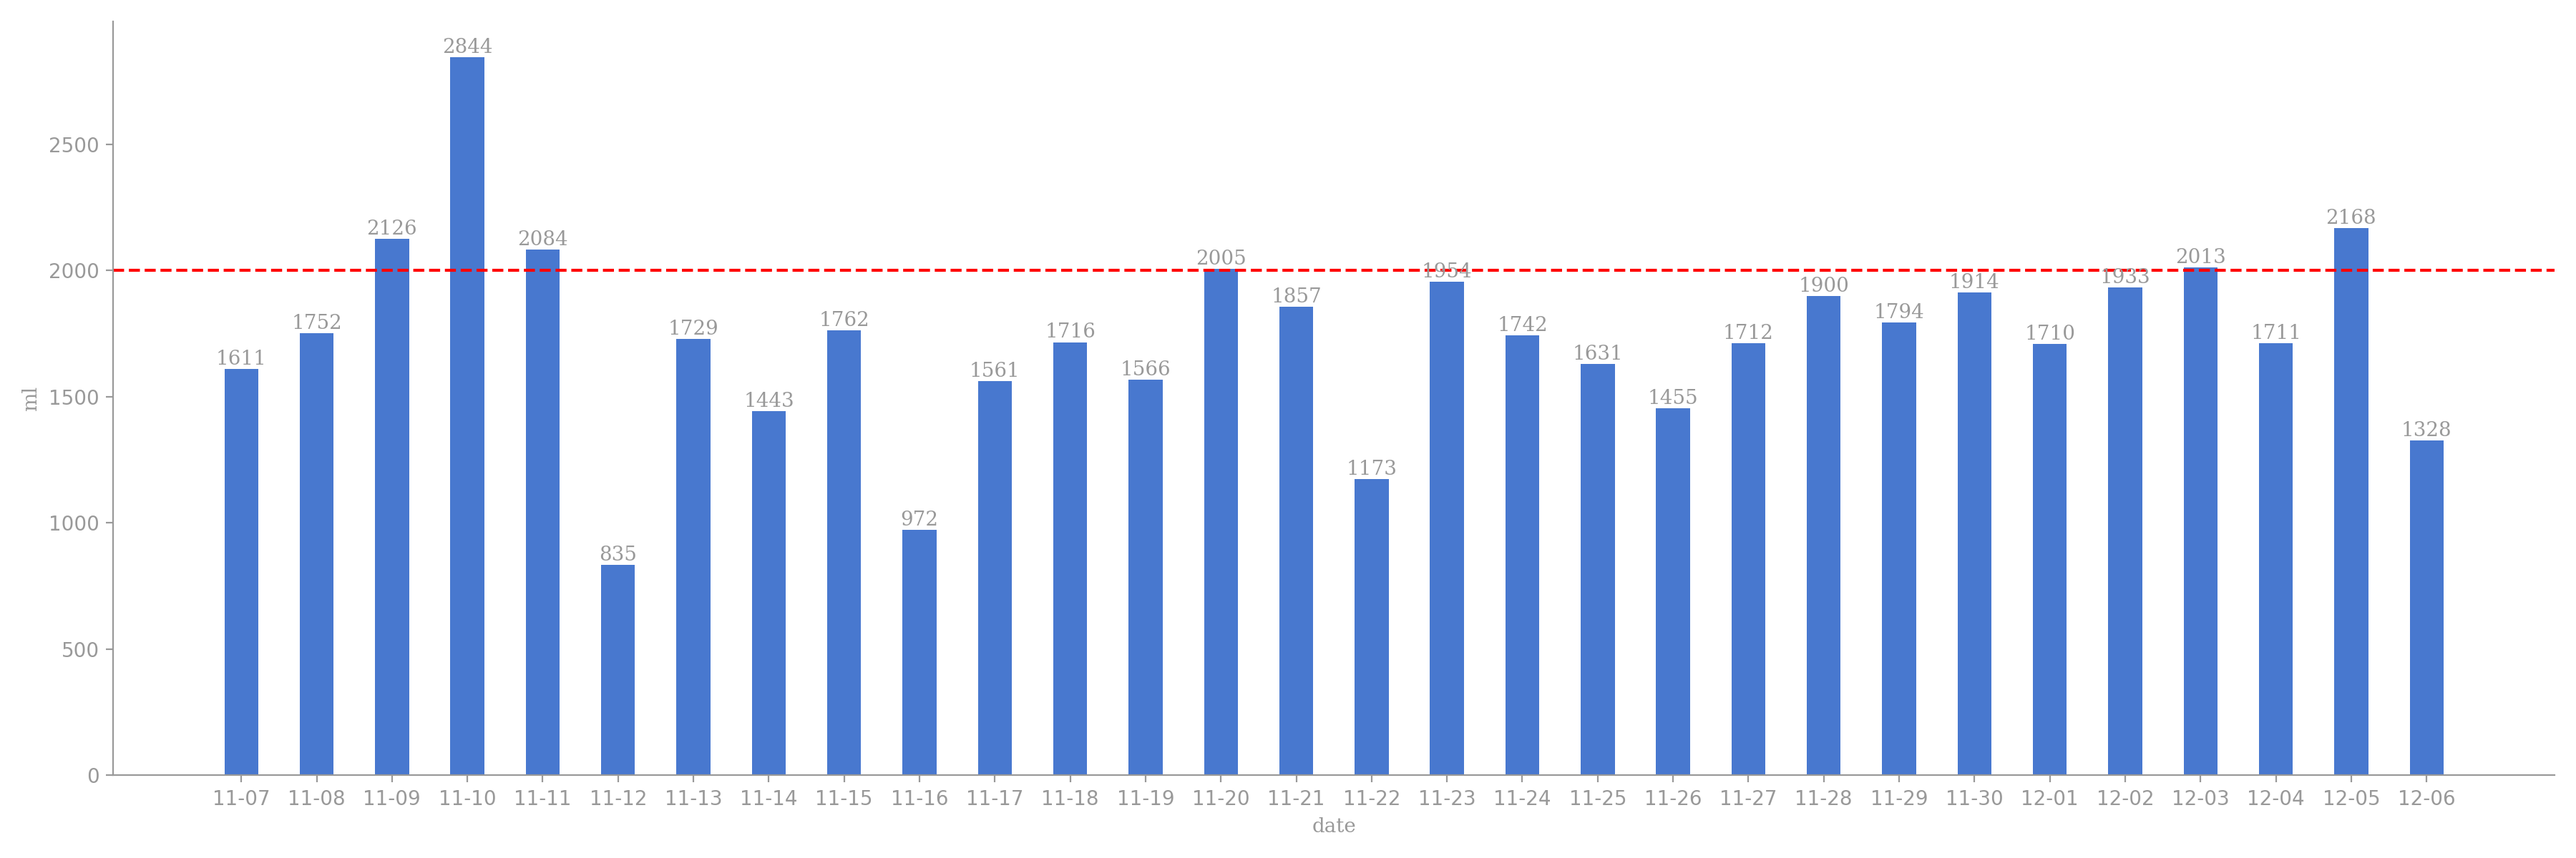
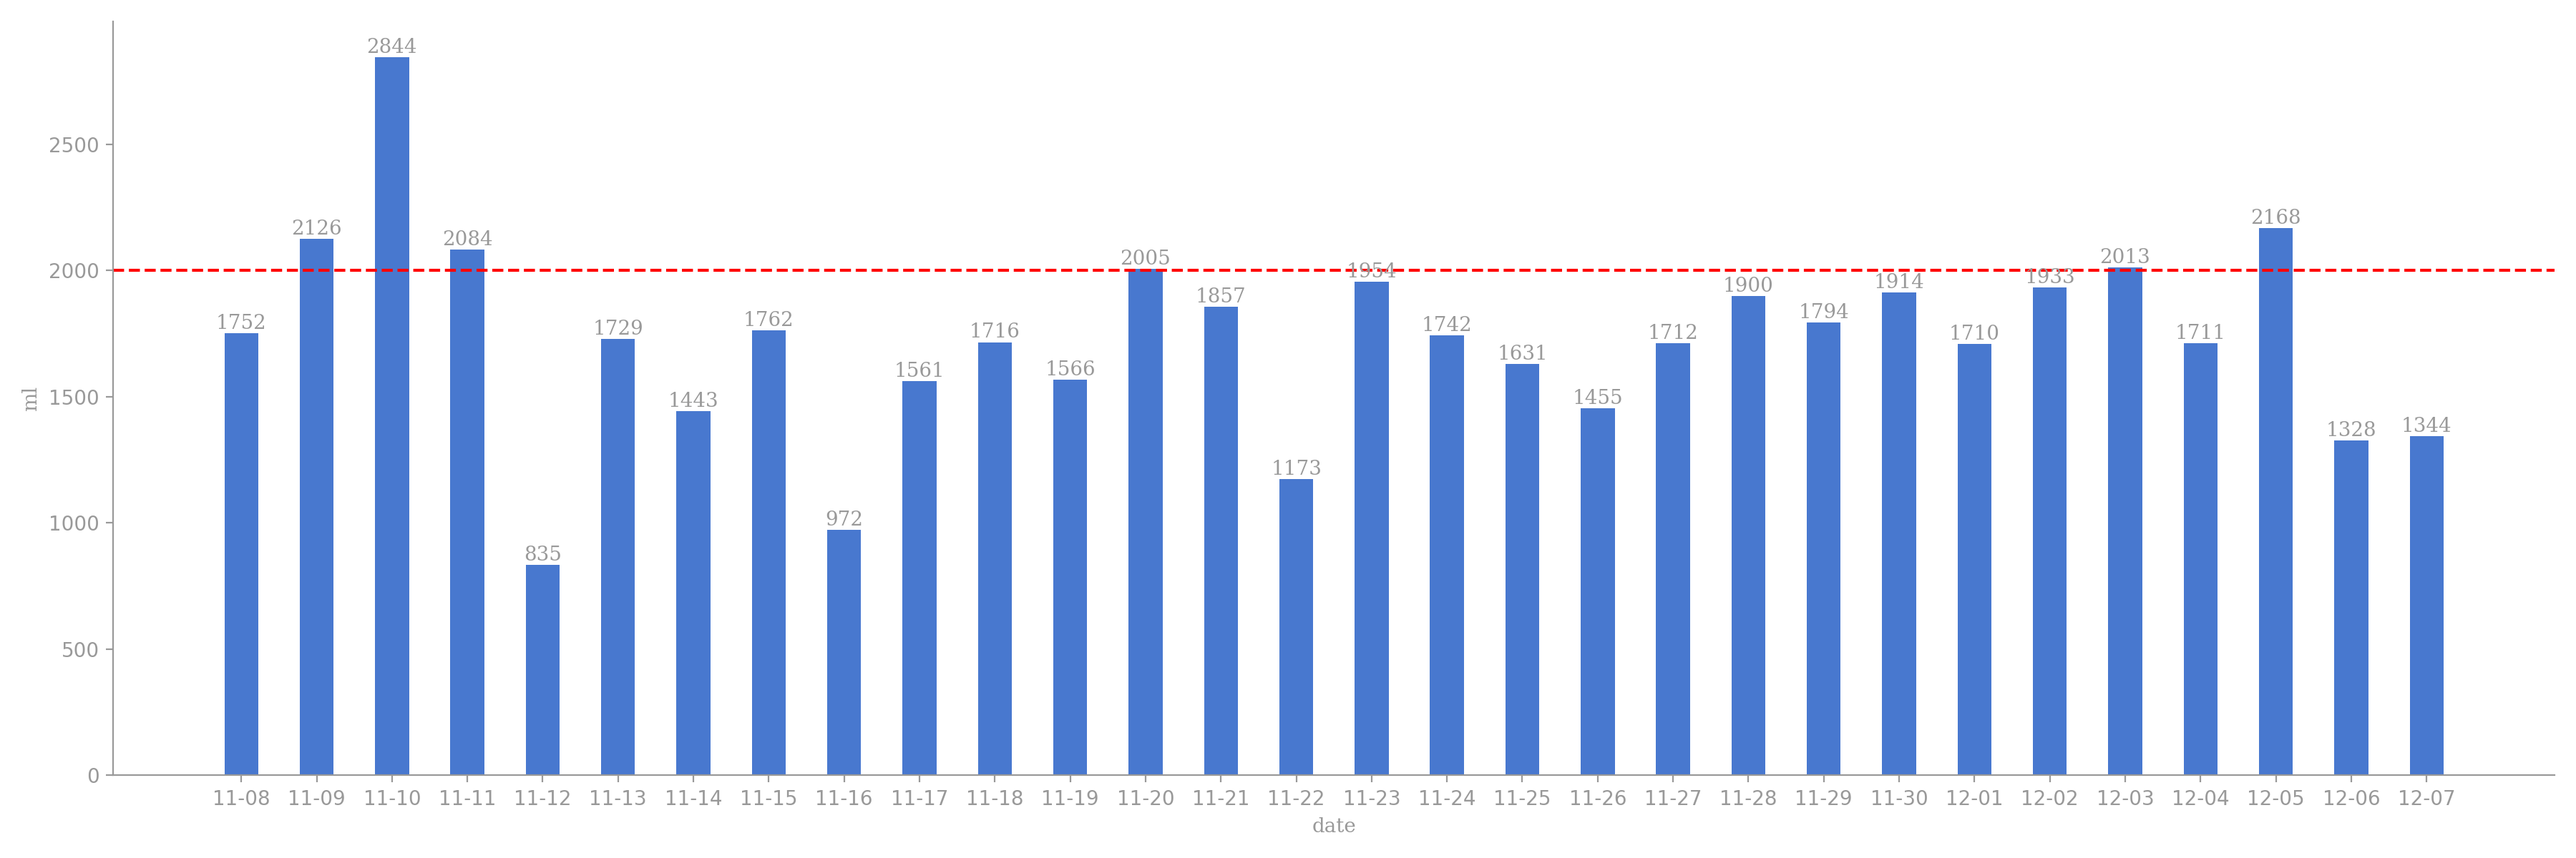
generated readme

Changed region(s): [[0.0622, 0.0308, 0.6533, 0.6783], [0.6533, 0.2467, 0.9644, 0.5242]]

diff --git a/README.md b/README.md
@@ -1,17 +1,3 @@
-# 今日饮水数据
-
-<div align=center>
-<img src="today.png" style="zoom: 100%;" />
-
-| 今日总饮水量 | 每小时平均饮水量 |
-| :----: | :----: |
-| 1344 | 149 |
-</div>
-
-| 日期 | 01:32:40 | 02:02:30 | 02:57:41 | 03:47:00 | 05:46:14 | 06:44:32 | 07:50:35 | 16:54:30 | 18:20:01 | 21:13:19 | 21:53:03 |
-| :----: | :----: | :----: | :----: | :----: | :----: | :----: | :----: | :----: | :----: | :----: | :----: |
-| 2024-12-07 | 97 | 84 | 93 | 98 | 200 | 97 | 136 | 96 | 250 | 94 | 99 |
-
 # 近30日饮水数据
 
 <div align=center>
@@ -19,8 +5,12 @@
 
 | 总饮水量 | 日均饮水量 |
 | :----: | :----: |
-| 52001 | 1733 |
+| 51734 | 1724 |
 </div>
+
+| 日期 | all | 01:32:40 | 02:02:30 | 02:57:41 | 03:47:00 | 05:46:14 | 06:44:32 | 07:50:35 | 16:54:30 | 18:20:01 | 21:13:19 | 21:53:03 |
+| :----: | :----: | :----: | :----: | :----: | :----: | :----: | :----: | :----: | :----: | :----: | :----: | :----: |
+| 2024-12-07 | 1344 | 97 | 84 | 93 | 98 | 200 | 97 | 136 | 96 | 250 | 94 | 99 |
 
 | 日期 | all | 01:34:38 | 01:52:36 | 02:29:59 | 03:28:17 | 04:05:06 | 06:32:26 | 07:31:02 | 13:23:41 | 16:32:52 | 17:40:32 | 20:30:54 | 22:34:23 | 23:53:08 |
 | :----: | :----: | :----: | :----: | :----: | :----: | :----: | :----: | :----: | :----: | :----: | :----: | :----: | :----: | :----: |
@@ -141,8 +131,4 @@
 | 日期 | all | 00:17:40 | 02:25:56 | 03:36:05 | 04:22:38 | 05:30:19 | 06:27:42 | 07:14:02 | 08:13:26 | 10:40:27 | 18:13:43 | 18:36:39 | 20:33:26 | 21:09:27 | 22:31:49 |
 | :----: | :----: | :----: | :----: | :----: | :----: | :----: | :----: | :----: | :----: | :----: | :----: | :----: | :----: | :----: | :----: |
 | 2024-11-07 | 1611 | 67 | 64 | 79 | 112 | 67 | 300 | 164 | 93 | 84 | 117 | 73 | 80 | 180 | 131 |
-
-| 日期 | all | 00:33:59 | 01:30:58 | 03:08:30 | 04:24:45 | 05:55:34 | 07:55:13 | 08:13:10 | 13:04:37 | 18:39:53 | 20:36:57 | 22:30:53 |
-| :----: | :----: | :----: | :----: | :----: | :----: | :----: | :----: | :----: | :----: | :----: | :----: | :----: |
-| 2024-11-06 | 1657 | 113 | 56 | 311 | 80 | 300 | 67 | 74 | 81 | 400 | 108 | 67 |
 
